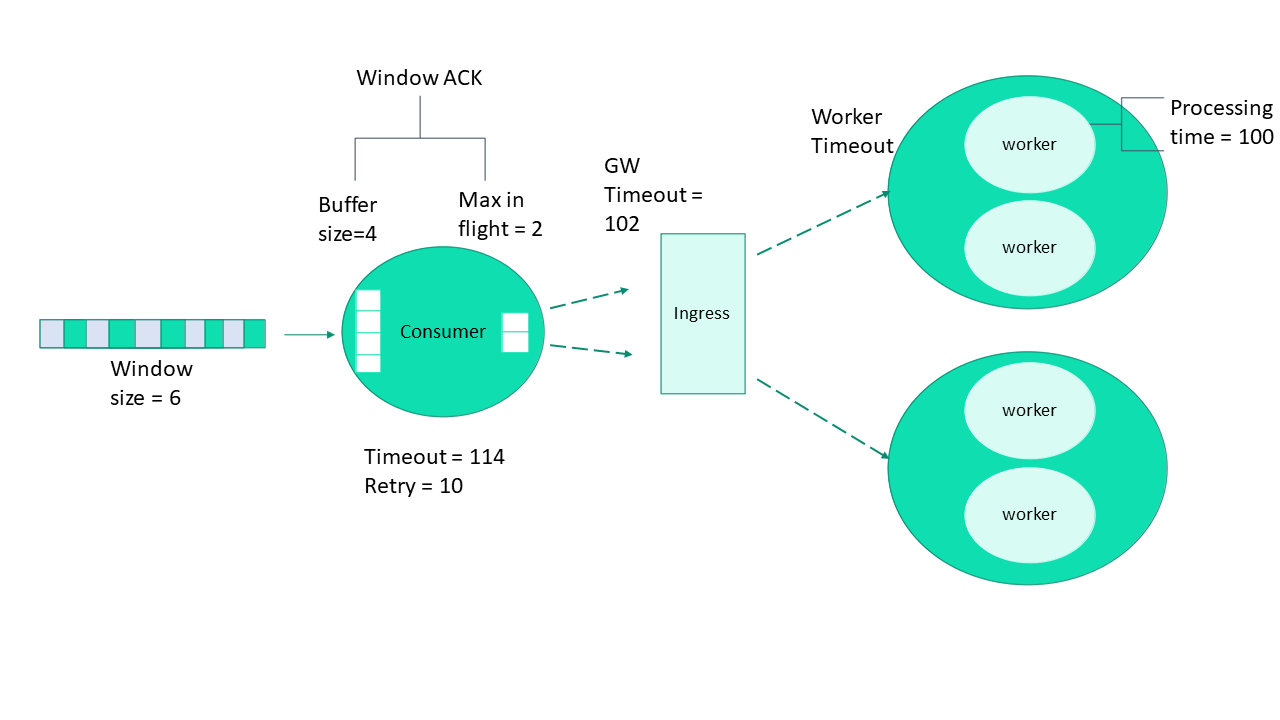
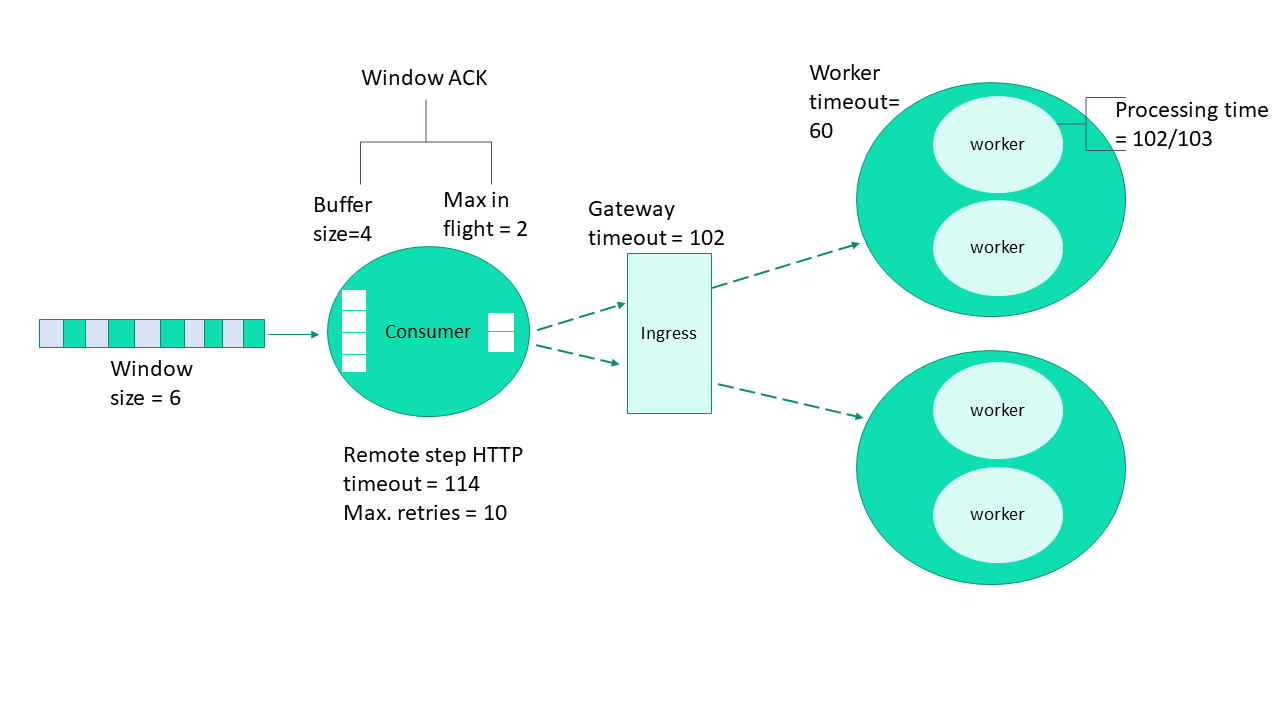
updates graphic and minor text edits

diff --git a/docs/serving/graph-ha-cfg.md b/docs/serving/graph-ha-cfg.md
@@ -7,14 +7,15 @@ This figure illustrates a simplistic flow of an MLRun serving graph with remote 
  
 ## Using Nuclio with stream triggers
 
-As explained in [MLRun Serving Graphs](./serving-graph.html), the serving graph is based on Nuclio functions. Nuclio can be used with 
+As explained in [MLRun Serving Graphs](./serving-graph.md), the serving graph is based on Nuclio functions. Nuclio can be used with 
 different trigger types. When used with stream triggers, such as as Kafka and V3io, it utilizes a consumer group concept whereby a record 
 that was already consumed is not consumed again upon a restart of the function. This provides an “at least once” processing method for 
 stateless functions. However, if the function does have state, such as persisting a batch of events to storage (for example, parquet files, 
 database) or if the function performs additional processing to the events after the function handler completes its process, then the flow 
 can get into situations where events seem to be lost. The mechanism of Window ACK provides a solution for such stateful event processing. 
 
-With Window ACK, the consumer group committed offset is always one window away, committing to: (processed event num – window). When the function restarts (for any reason including scale-up or scale-down), it starts consuming from this last committed point. 
+With Window ACK, the consumer group committed offset is always one window away, committing to: (processed event num – window). When the 
+function restarts (for any reason including scale-up or scale-down), it starts consuming from this last committed point. 
 
 The size of the required Window ACK is based on the number of events that could be in process. The window should be as small as possible 
 (although the smaller the window, the closer the processing comes to asynchronous). You can define a window ACK per trigger 
@@ -33,14 +34,14 @@ The buffer size is configurable and is key to the overall configuration. The buf
 maximum number of events that can be received by the worker and not yet be processed. Once this buffer is full, events need to be processed 
 in order for the function to be able to receive more events. 
 
-The buffer should be as small as possible. There is a tradeoff between the buffer size and the latency. A larger buffer has lower latency 
+The buffer should be as small as possible. There is a trade-off between the buffer size and the latency. A larger buffer has lower latency 
 but increases the recovery time after a failure due to the high number of flows that need to be reprocessed. </br>
 To set the buffer size use: 
 
 `function.spec.parameters["source_args"] = {"buffer_size": 1}`
 
 <!-- add updated link to function.spec.parameters when graphs content is in build:  -->
-The default buffer_size=8.
+The default `buffer_size`=8.
 
 In the above example the consumer function has a single worker, but in cases where a function has multiple workers, each worker has its own buffer. 
 
@@ -60,10 +61,14 @@ event did not complete successfully.
 
 In our simplistic flow this is the consumer function 
 
-- Maximum retries: The default is 6, which is equivalent to about 3-4 minutes. If you expect that the use-case will need more nodes, and that the nodes will not come up quickly, then you probably should increase the number of retries. There is a tradeoff: if the number of retries is higher, and there is an event that retries a few times, then 17% (1 out of 6 events (default) in Window ACK) is occupied by a request that has not timed out.   
-- Remote step http timeout: The time interval the caller waits for a response from the remote before retrying the request. This is affected by the time your remote function processing time.
+- Maximum retries: The default is 6, which is equivalent to about 3-4 minutes. If you expect that the use-case will need more nodes, and 
+that the nodes will not come up quickly, then you probably should increase the number of retries. There is a trade-off: if the number of 
+retries is higher, and there is an event that retries a few times, then 17% (1 out of 6 events (default) in Window ACK) is occupied by a 
+request that has not timed out.   
+- Remote step http timeout: The time interval the caller waits for a response from the remote before retrying the request. This is affected 
+by the time your remote function processing time.
 - Max in flight: The number of in-flight requests that can be sent in parallel from each caller worker towards the remote function. 
-If the caller has >1 worker, each worker has its own max in flight. When max retries is reached then the event is pushed into 
+If the caller has >1 worker, each worker has its own max in flight. When the max retries is reached then the event is pushed into 
 the exception stream. You can look at the exception stream to see which functions didn’t successfully complete.
 
 To set the buffer max-in-flight and the timeout: 
@@ -72,10 +77,12 @@ To set the buffer max-in-flight and the timeout:
 
 ### Remote-function configuration
 
-- Worker timeout: The time interval, in seconds, an arriving request waits for an available worker. The worker timeout must be shorter than gateway timeout. The default=10. This configures the Nuclio parameter: `triggers.(name).workerAvailabilityTimeoutMilliseconds`.
-- Gateway timeout: The time interval, in seconds, the gateway waits for the end of a request. This determines when the ingress times out on a request. It must be slightly longer than the expected function processing time. The default=60.
+- Worker timeout: The time interval, in seconds, an arriving request waits for an available worker. The worker timeout must be shorter than 
+gateway timeout. The default=10. This configures the Nuclio parameter: `triggers.(name).workerAvailabilityTimeoutMilliseconds`.
+- Gateway timeout: The time interval, in seconds, the gateway waits for the end of a request. This determines when the ingress times out on 
+a request. It must be slightly longer than the expected function processing time. The default=60.
 
-To set buffer gateway timeout and worker timeout use:  `My_serving_func.with_http(gateway_timeout=125, worker_timeout=60)`
+To set buffer gateway timeout and worker timeout use: `My_serving_func.with_http(gateway_timeout=125, worker_timeout=60)`
 
 <a id="configuration-considerations"></a>
 ## Configuration considerations
@@ -87,10 +94,10 @@ and parameters that provide high availability, using a non-default configuration
 - Assume the processing time of the remote function is Pt. 
 - Timeout: Pt + 1 second (usually sufficient).
 - Serving function 
-   - gateway_timeout: Pt + 1 second (usually sufficient).
-   - worker_timeout: The general rule of thumb is the greater of Pt/10 or 60 seconds. However you should adjust the 
+   - `gateway_timeout`: Pt + 1 second (usually sufficient).
+   - `worker_timeout`: The general rule of thumb is the greater of Pt/10 or 60 seconds. However you should adjust the 
    value according to your needs.
-- max_in_flight: If the processing time is very high then max_in_flight should not be very high. Otherwise, there will be many retries.
+- `max_in_flight`: If the processing time is very high then max_in_flight should not be very high. Otherwise, there will be many retries.
 - Window ACK value: The consumer buffer size + max_in_flight, since it is per each shard and there is a single worker. 
 
 You should pay great attention when defining the Window ACK as it depends on the entire graph flow, and understanding when steps are done in parallel (branching) vs. sequential invocation. Another key aspect is that the number of workers should also affect the window size.  
@@ -99,4 +106,4 @@ For example:
 - If a graph includes the following: consumer -> remote r1 -> remote r2  
    - Then the window should be the sum of: consumer’s buffer size + MIF to r1 + MIF to r2. 
 - If a graph includes calling to remote r1 and r2 in parallel 
-   - The Winodw should be set to: consumer’s buffer size + max (MIF to r1, MIF to r2)  
+   - The Window should be set to: consumer’s buffer size + max (MIF to r1, MIF to r2)  
